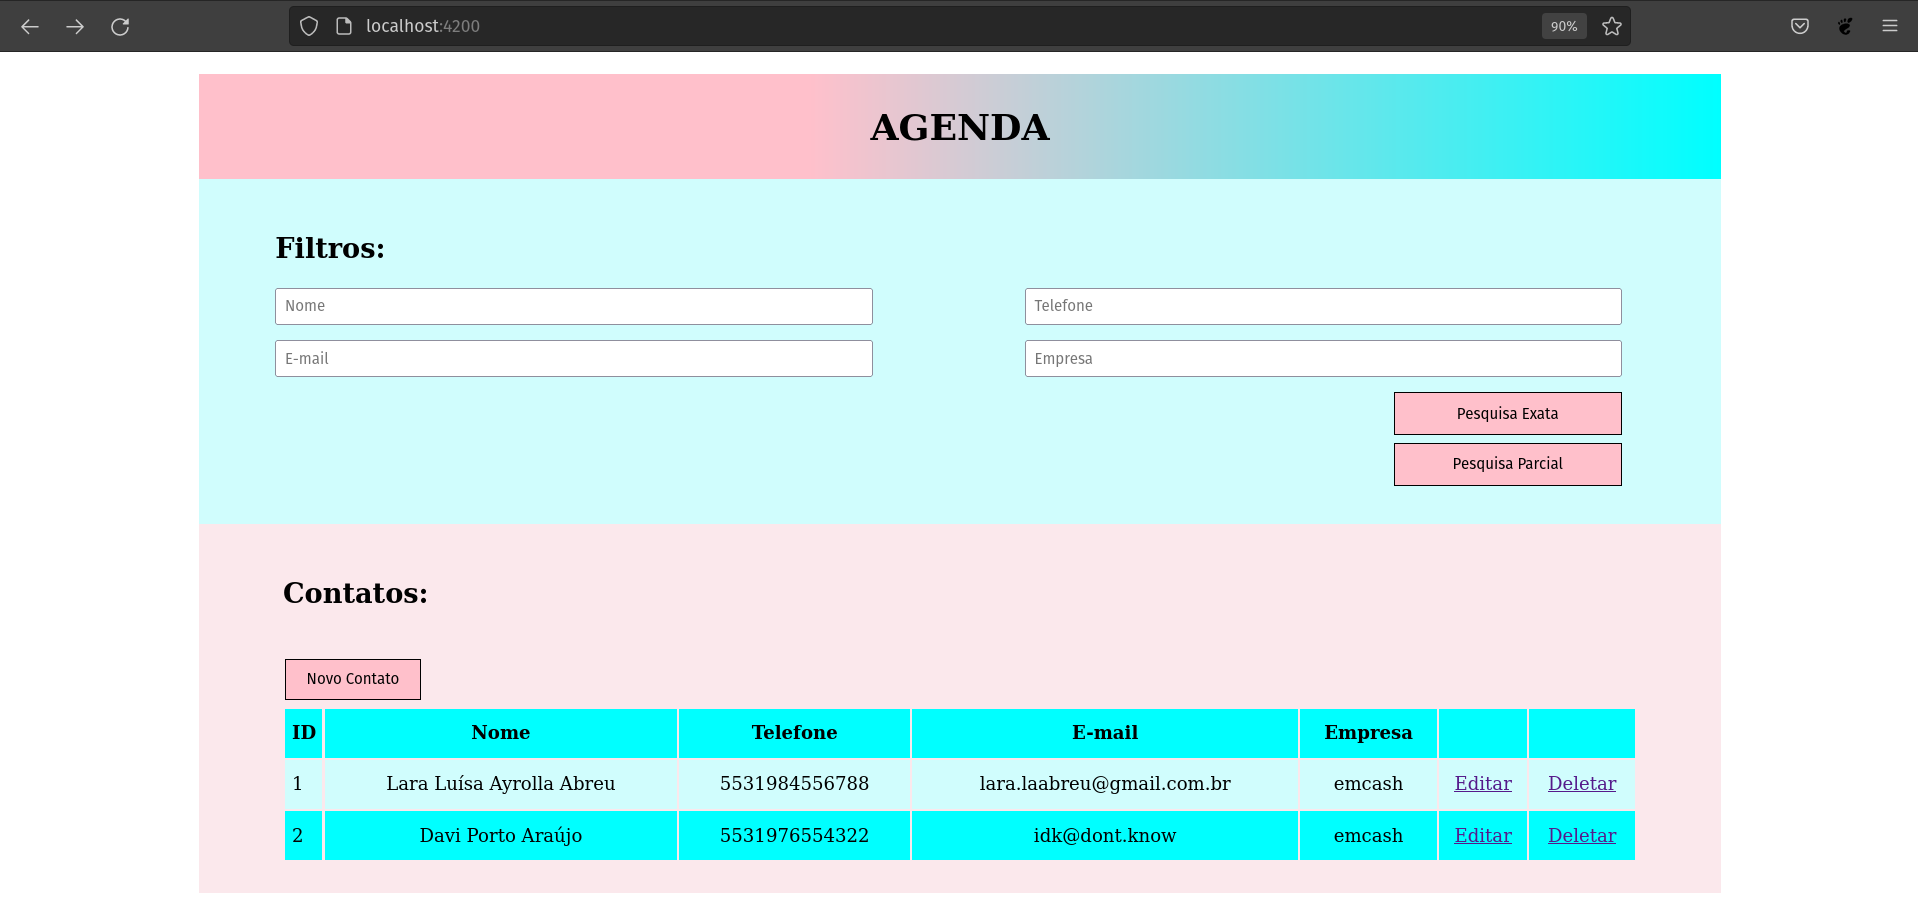
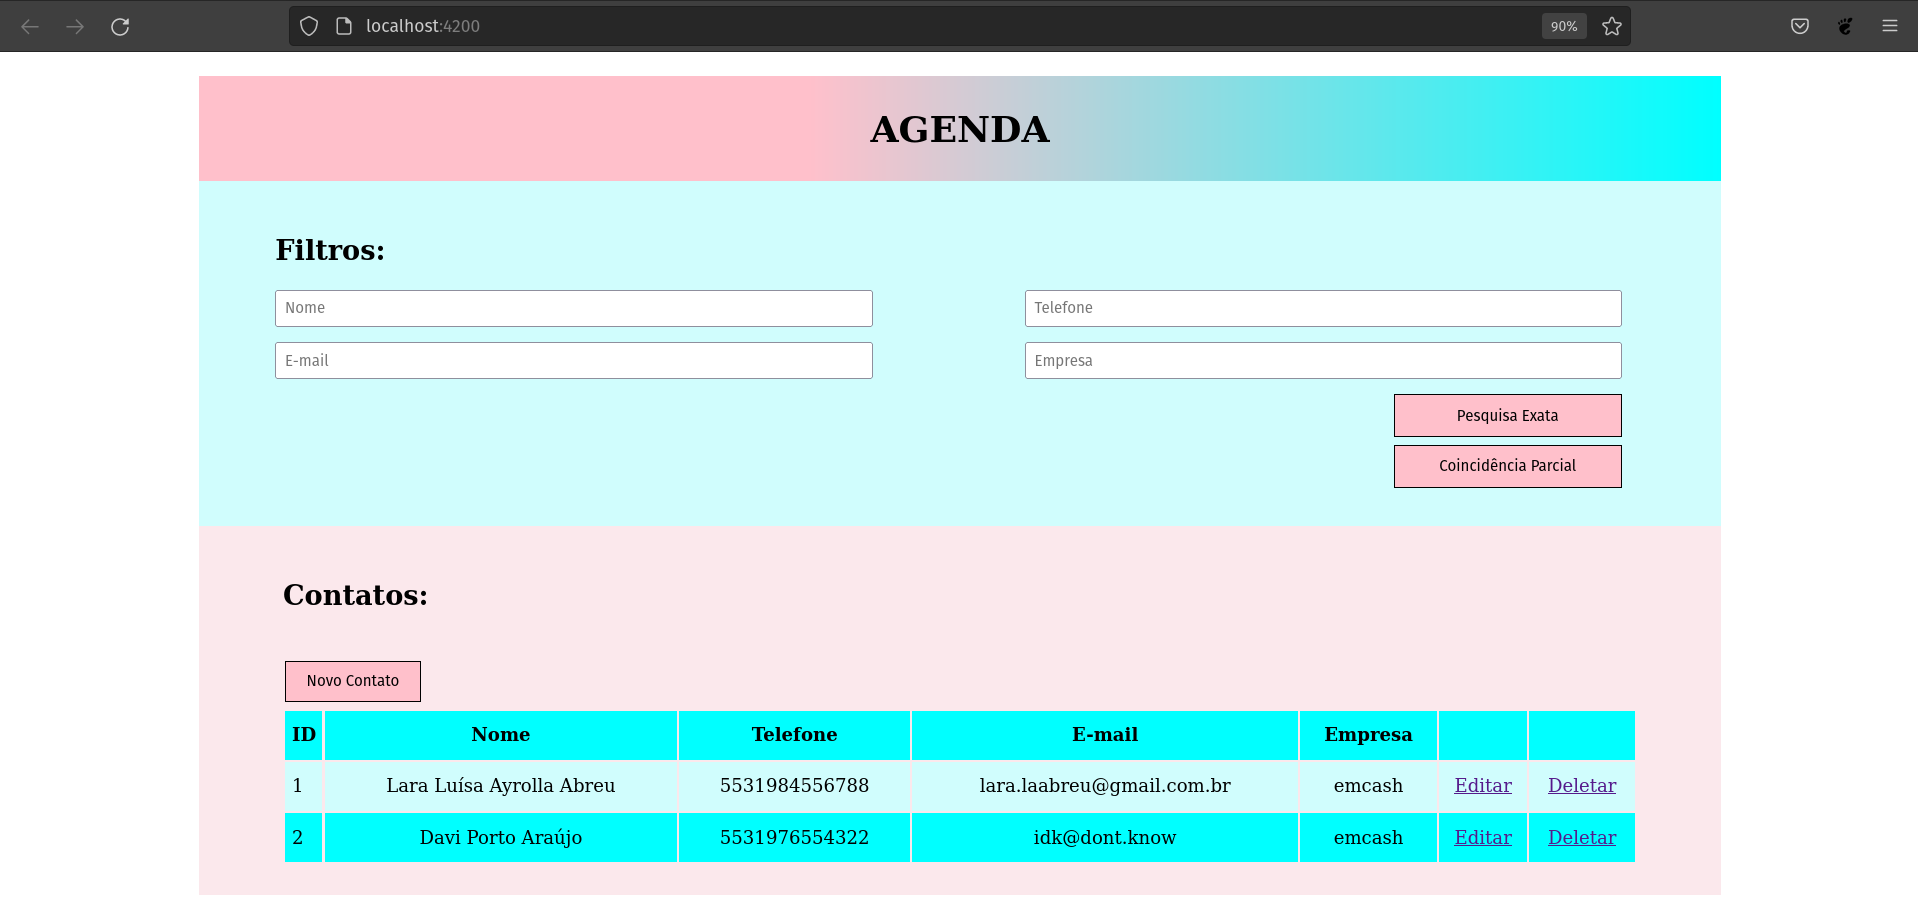
fixing exact search

diff --git a/src/app/contact-list/contact-list.component.ts b/src/app/contact-list/contact-list.component.ts
@@ -33,15 +33,15 @@ export class ContactListComponent {
     const phone = (<HTMLInputElement>document.getElementById("phone")).value
     const email = (<HTMLInputElement>document.getElementById("email")).value
     const company = (<HTMLInputElement>document.getElementById("company")).value
-    this.url = 'http://localhost:3000/contacts';
+    this.url = 'http://localhost:3000/contacts?';
     if (name!=null && name!='')
-      this.url+= '?name=' + name;
+      this.url+= 'name=' + name + '&';
     if (phone!=null && phone!='')
-      this.url+= '&phone=' + phone;
+      this.url+= 'phone=' + phone + '&';
     if (email!=null && email!='')
-      this.url+= '&email=' + email;
+      this.url+= 'email=' + email + '&';
     if (company!=null && company!='')
-      this.url+= '&company=' + company;
+      this.url+= 'company=' + company;
     this.http.get(this.url).subscribe(res => {
       this.contacts = res
     })

diff --git a/src/app/contact-list/contact-list.component.html b/src/app/contact-list/contact-list.component.html
@@ -6,7 +6,7 @@
         <input id="email" type="text" placeholder="E-mail">
         <input id="company" type="text" placeholder="Empresa">
         <button class="search-button" type="button" (click)="filterContactsExact()">Pesquisa Exata</button>
-        <button class="search-button" type="button" (click)="filterContacts()">Pesquisa Parcial</button>
+        <button class="search-button" type="button" (click)="filterContacts()">Coincidência Parcial</button>
     </form>
 </div>
 <router-outlet></router-outlet>
